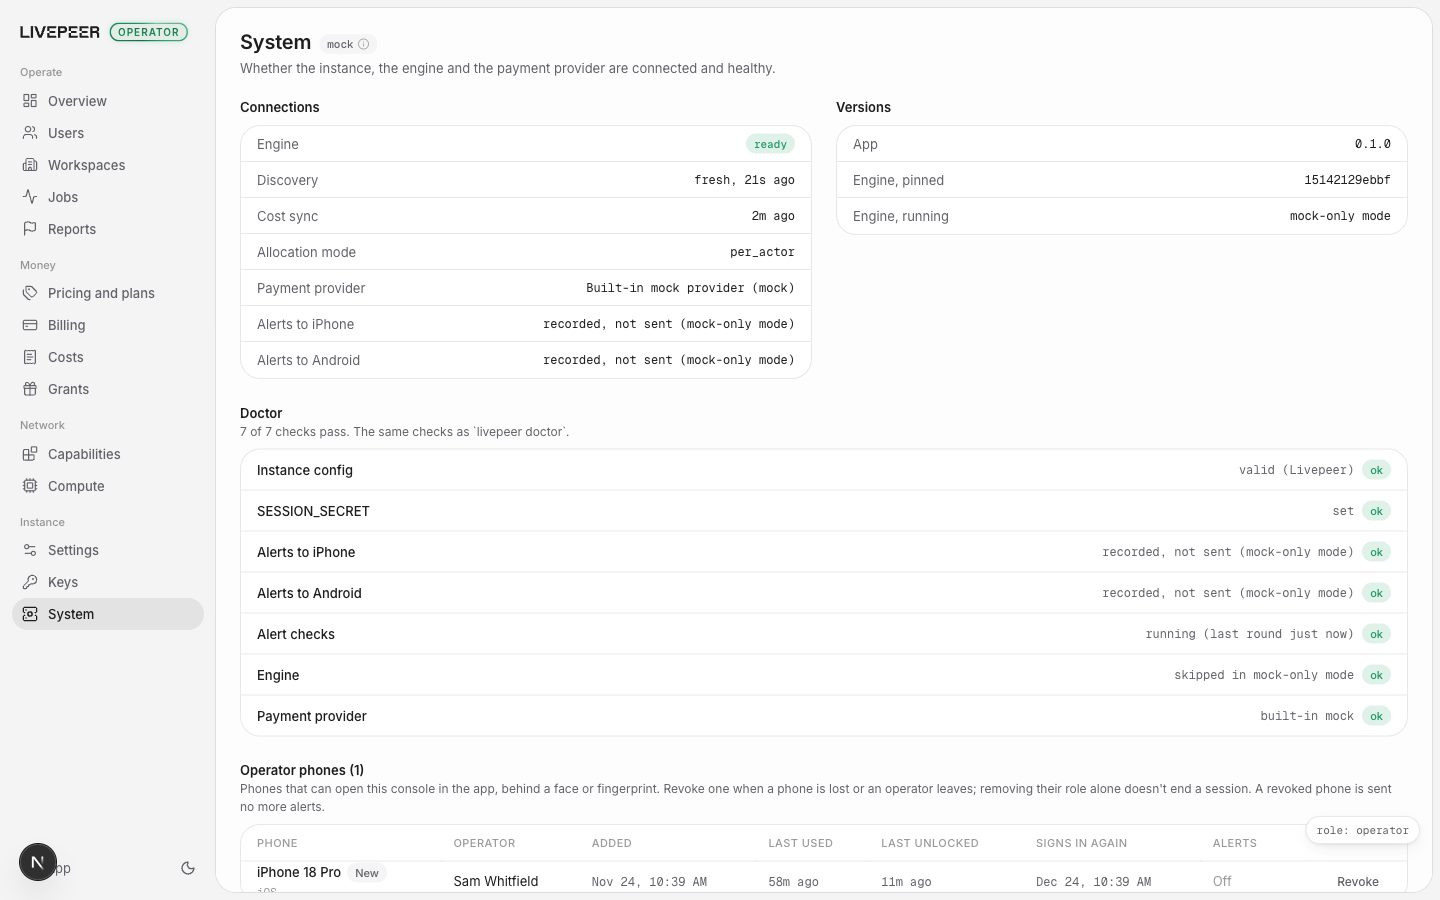
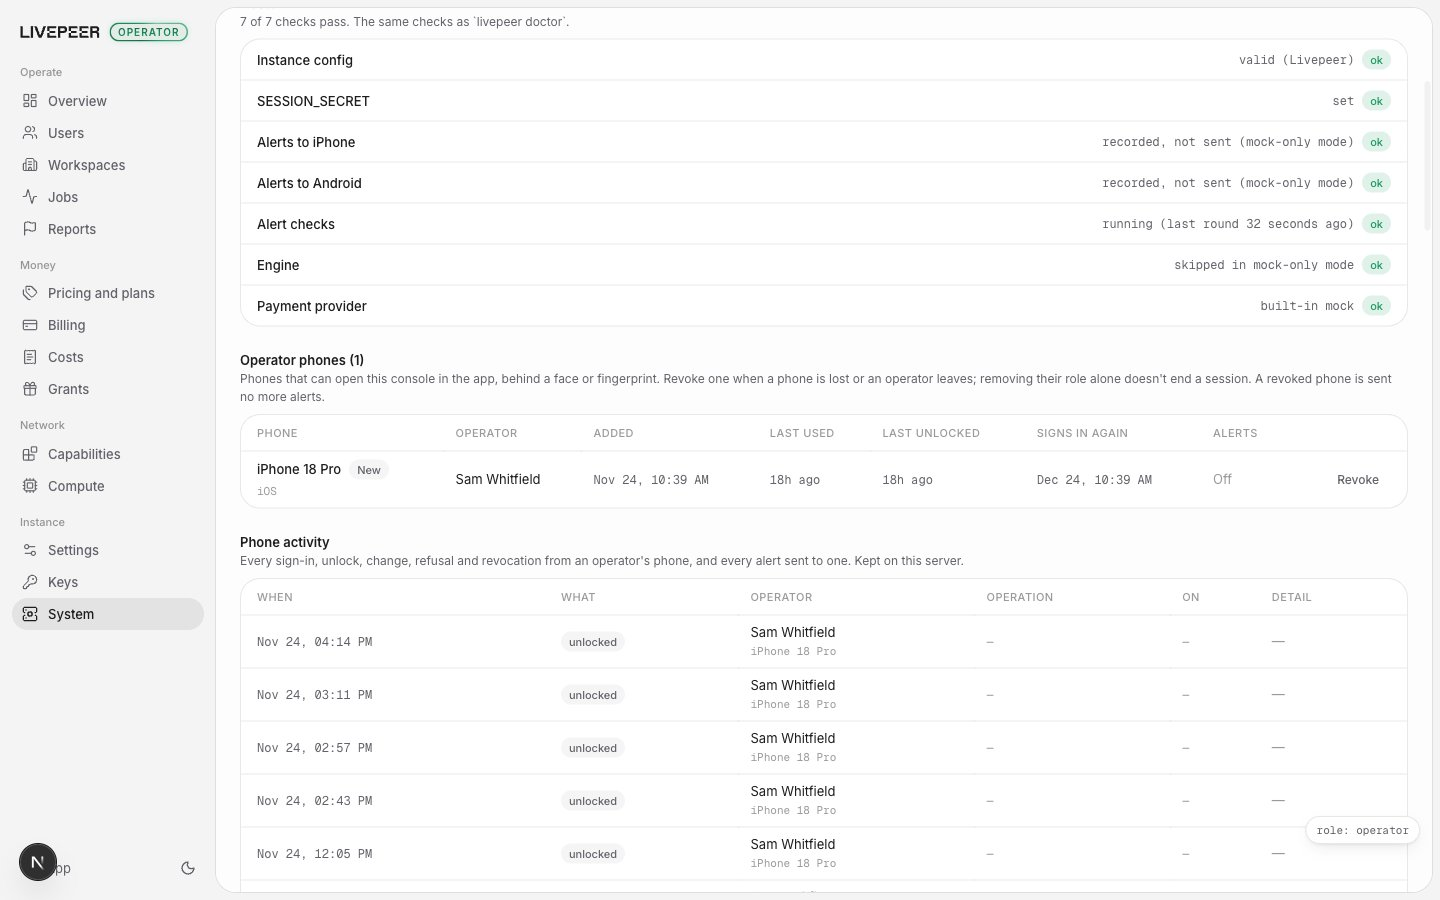
fix(console): give two-line table cells room above and below (#46)
## What

The Phone cell in **System → Operator phones** looked squished: the
phone's name, its "New" tag and the platform under it filled the row
edge to edge.

The console's shared table set a row height and no vertical padding, so
any two-line cell touched the hairlines. The tag only made it visible.

- Table cells now have 8px of padding above and below. One-line rows are
unchanged at 40px; a two-line row grows to 56px.
- In the phone cell, the name and tag sit 8px apart and the platform 2px
under the name.

Because it is the shared table, the two-line cells in Phone activity and
Reports get the same room.

## Screenshots

| Before | After |
|---|---|
| ![Before,
dark](https://github.com/aquareum/livepeer/blob/87920b6f9d4c1860b4d6f58eca3d2a60a208c8ba/docs/screenshots/operator-phones-new-tag-dark.jpg?raw=true)
| ![After,
dark](https://github.com/aquareum/livepeer/blob/bc3fe2179ae5944979a5ce1c614fa8e9899d2c09/docs/screenshots/operator-phones-new-tag-dark.jpg?raw=true)
|
| ![Before,
light](https://github.com/aquareum/livepeer/blob/87920b6f9d4c1860b4d6f58eca3d2a60a208c8ba/docs/screenshots/operator-phones-new-tag-light.jpg?raw=true)
| ![After,
light](https://github.com/aquareum/livepeer/blob/bc3fe2179ae5944979a5ce1c614fa8e9899d2c09/docs/screenshots/operator-phones-new-tag-light.jpg?raw=true)
|

At phone width, after:

<img
src="https://github.com/aquareum/livepeer/blob/bc3fe2179ae5944979a5ce1c614fa8e9899d2c09/docs/screenshots/operator-phones-new-tag-mobile.jpg?raw=true"
[…]

diff --git a/packages/operator-console/src/components/table.tsx b/packages/operator-console/src/components/table.tsx
@@ -45,7 +45,8 @@ export function Table<T>({ columns, rows, rowKey, caption, empty }: TableProps<T
                 <td
                   key={column.key}
                   className={cn(
-                    "h-10 px-3 align-middle first:pl-4 last:pr-4",
+                    // The height keeps one-line rows dense; the padding is what a two-line cell gets to breathe.
+                    "h-10 px-3 py-2 align-middle first:pl-4 last:pr-4",
                     column.align === "right" && "text-right",
                     column.mono && "whitespace-nowrap font-mono text-[12px] text-muted-foreground",
                     column.wide && "hidden md:table-cell",

diff --git a/packages/operator-console/src/views/operator-phones.tsx b/packages/operator-console/src/views/operator-phones.tsx
@@ -91,8 +91,8 @@ export function OperatorPhonesPanel({ phones: initial, added, unseen, seen, offe
               key: "phone",
               header: "Phone",
               cell: (phone) => (
-                <span className="flex flex-col">
-                  <span className="flex items-center gap-1.5 font-medium">
+                <span className="flex flex-col gap-0.5">
+                  <span className="flex items-center gap-2 font-medium">
                     {phone.name}
                     {added.includes(phone.id) ? <Badge>New</Badge> : null}
                   </span>

diff --git a/docs/design-proposals.md b/docs/design-proposals.md
@@ -131,3 +131,4 @@ brand expression, Inter + Geist Mono, mono logo, 4px rhythm) are unchanged. Scre
 | 122 | **Console: whether anything is watching is one more line of Doctor.** Alerts are sent by a round of checks each minute, run by the server's own timer or, on a host with no server between requests, by a scheduler. If nothing runs them, phones are simply told nothing, so System's Doctor list gains "Alert checks": "running (last round 40 seconds ago)", or "nothing has run them in the last five minutes" with the failed tag and a fix that names what to set up for the way this instance runs. It appears only while the console is offered on phones, in the list's existing row, tag and fix pattern; no new component. `livepeer doctor` prints the same line. |
 | 123 | **Console: the new-phone notice can be closed, by each operator for themselves, and leaves a dot behind.** Replaces the "no dismiss" half of decision 67, which kept a full-width line above every page title for two days. The line is the same, with a small close button at its right end after the "Operator phones" link. Closing it is remembered per operator and per phone (`operator_phone_notice_dismissals`: the operator's id, the phone's session id, when; no name), so it never comes back for that operator and that phone, every other operator still sees it until they close it themselves, and a second phone added later is announced again. It is not hidden from the operator whose account added the phone: a hijacked account is the case it exists for. Once closed, "System" in the sidebar carries a 6px ink dot for the rest of the phone's first two days (and "System, an operator phone was added in the last two days" to a screen reader), so the phone stays findable without the bar. The dot is ink, not green: green is for live and positive, never on a link. The close is a plain form post, so it works before the page's script has loaded. The push alert other phones get is unchanged. One gap: at phone width the console's navigation is a scrolling strip with System last, so the dot is off screen until the strip is scrolled; the notice itself, with its close button top right, reads well there. Screenshots: operator-new-phone-notice-dark.jpg, operator-new-phone-notice-light.jpg (a second phone announced while the first keeps its dot), operator-new-phone-notice-mobile.jpg, operator-new-phone-dismissed-dark.jpg, operator-new-phone-dismissed-light.jpg, operator-new-phone-dismissed-mobile.jpg. |
 | 124 | **Console: System's dot leads to something, and goes once you have looked.** From the owner's review of decision 123: the dot sat on System for two days, and System said nothing about why. Two changes. In the Operator phones list a phone added in the last two days carries a quiet "New" tag beside its name, the same neutral badge the console uses elsewhere, so the dot points at something visible. And the dot goes for an operator once they open System, not after two days: it is remembered per operator (`seen_at` beside the dismissal), so one operator looking clears it for nobody else. The tag stays for the two days whoever has looked. The notice itself is unchanged: it still has to be closed by hand, since opening System for another reason is not the same as having read it. |
+| 125 | **Console: a two-line table cell gets room.** From the owner's review of decision 124: with the "New" tag beside it, the phone's name and the platform under it filled the row edge to edge. The console's table set a row height and no vertical padding, so any two-line cell touched the hairlines; the tag only made it show. Cells now carry 8px above and below. A one-line row is unchanged at 40px, since its 18px line plus the padding is still under the row height; a two-line row grows to 56px. It is the shared table, so Phone activity and Reports get the same room. In the phone cell the name and tag sit 8px apart and the platform 2px under the name. Density is kept where it matters, on the one-line rows that make up most tables. One thing left as it was: at phone width the name wraps beside the tag. Screenshots: operator-phones-new-tag-dark.jpg, operator-phones-new-tag-light.jpg, operator-phones-new-tag-mobile.jpg (retaken). |
